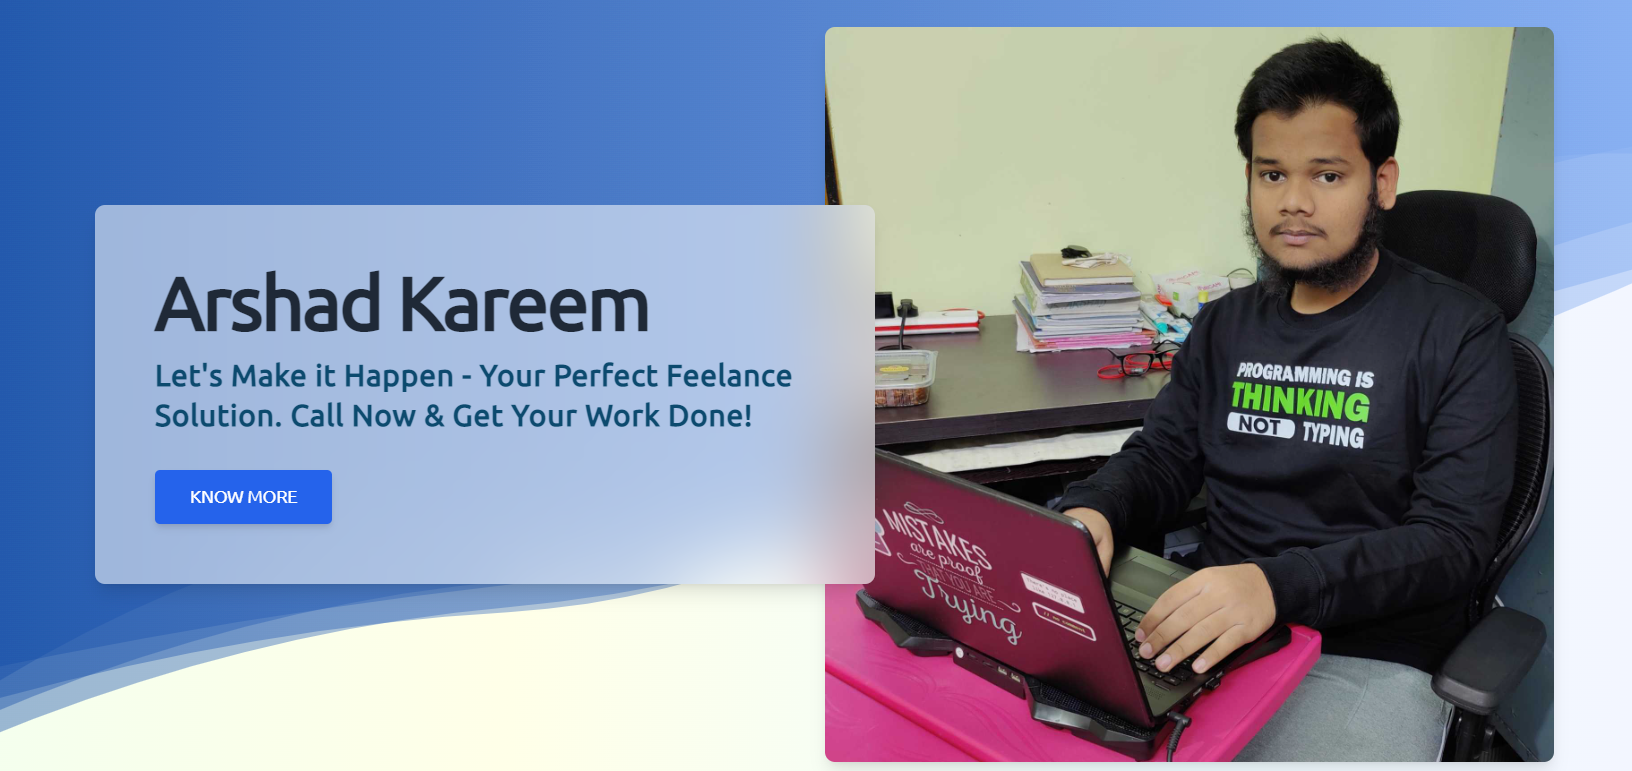
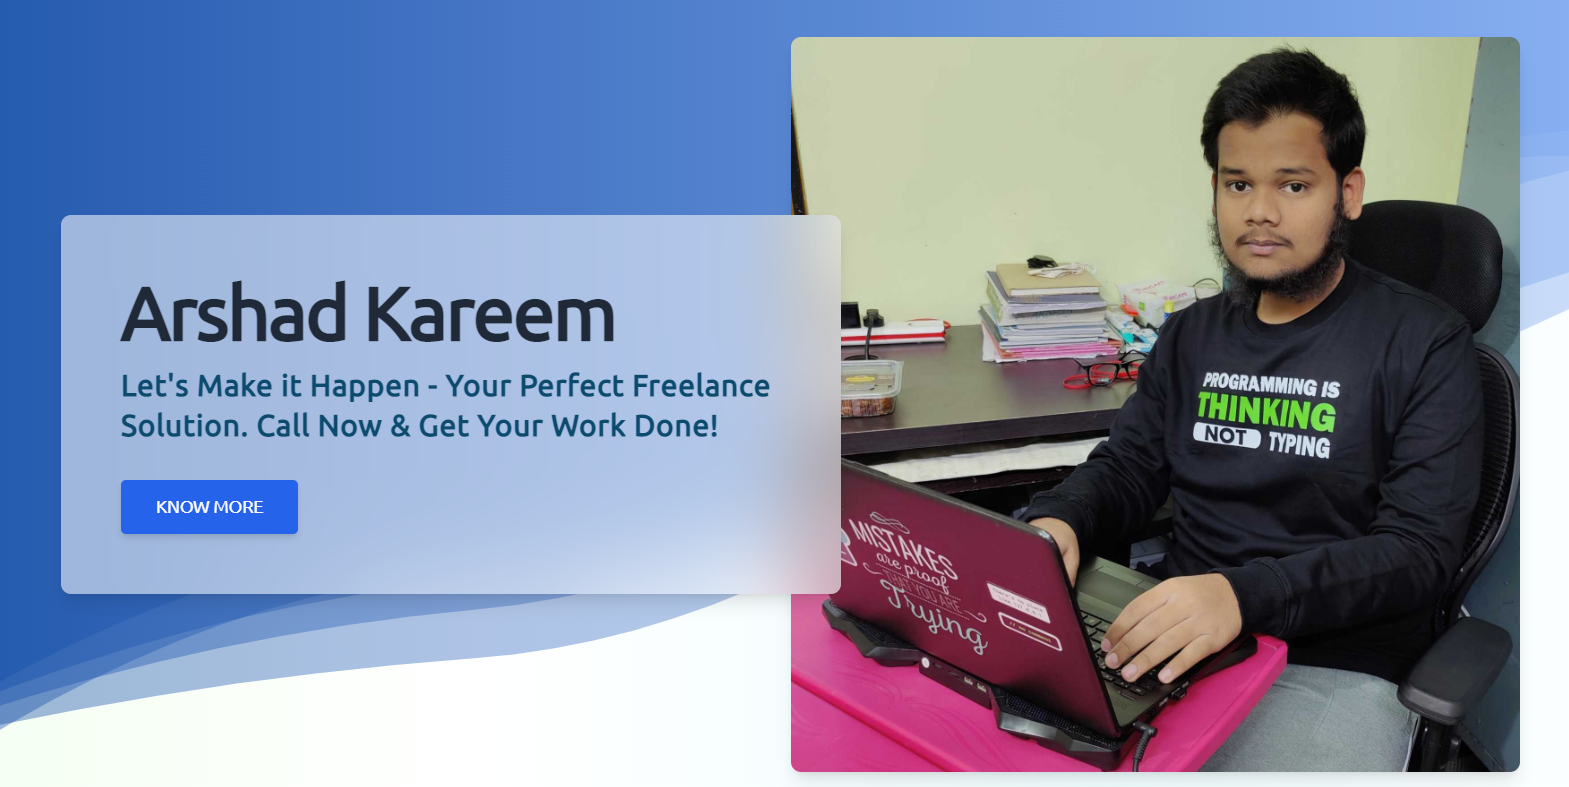
V 1.0.5

diff --git a/index.html b/index.html
@@ -125,7 +125,7 @@
                         <div class="md:mt-12 lg:mt-0 mb-12 lg:mb-0">
                             <div class="block rounded-lg shadow-lg px-6 py-12 md:px-12 lg:-mr-10" style="background: hsla(0, 0%, 100%, 0.55); backdrop-filter: blur(30px);">
                                 <h1 class="text-4xl md:text-5xl xl:text-6xl font-bold tracking-tight mb-3">Arshad Kareem<br /></h1>
-                                <h1 class="text-sky-900 tracking-wide text-2xl font-semibold mb-7">Let's Make it Happen - Your Perfect Feelance Solution. Call Now & Get Your Work Done!</h1>
+                                <h1 class="text-sky-900 tracking-wide text-2xl font-semibold mb-7">Let's Make it Happen - Your Perfect Freelance Solution. Call Now & Get Your Work Done!</h1>
                                 <a class="inline-block px-7 py-3 mb-2 md:mb-0 md:mr-2 bg-blue-600 text-white font-medium text-sm leading-snug uppercase rounded shadow-md hover:bg-blue-700 hover:shadow-lg focus:bg-blue-700 focus:shadow-lg focus:outline-none focus:ring-0 active:bg-blue-800 active:shadow-lg transition duration-150 ease-in-out"
                                     data-mdb-ripple="true" data-mdb-ripple-color="light" href="#MyStuff" role="button">Know More</a>
                             </div>
